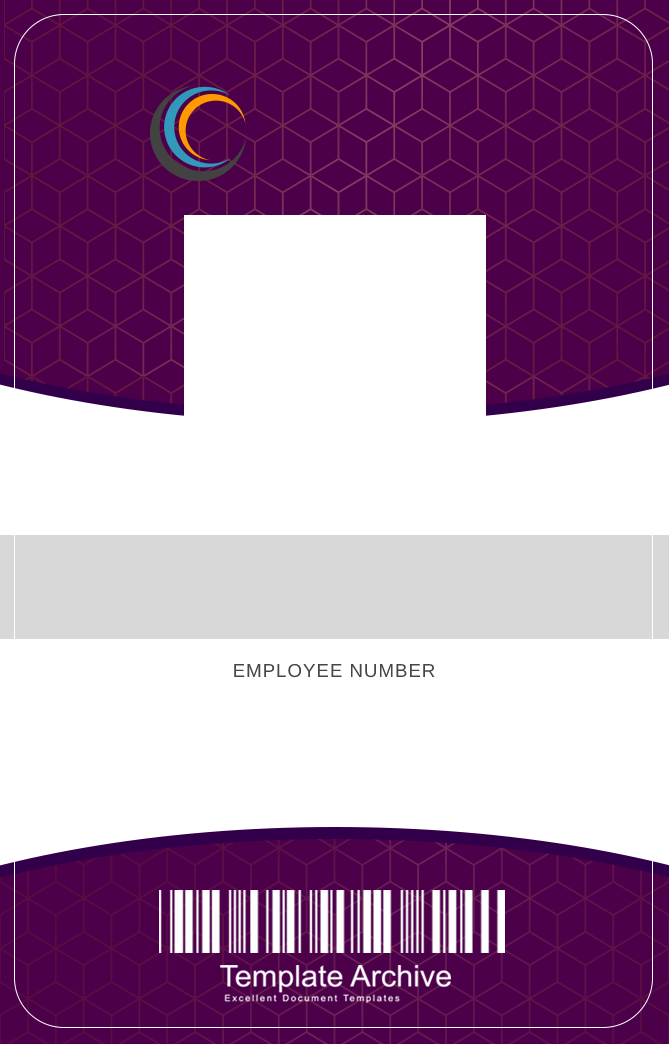
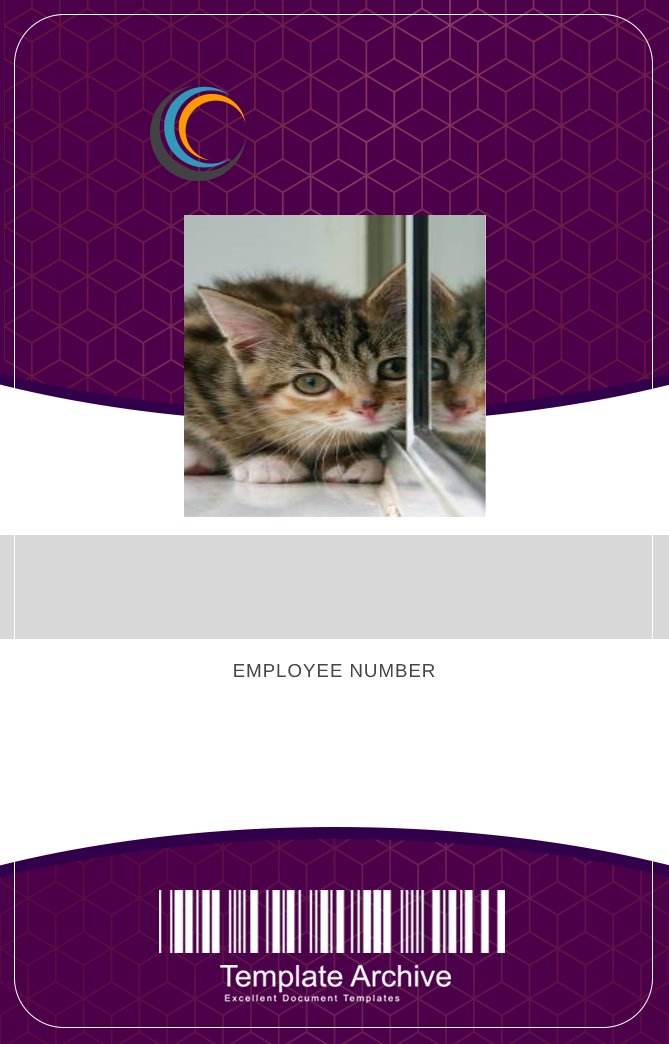
Render the employee photo

Changed region(s): [[0.2691, 0.1839, 0.7474, 0.5211]]

diff --git a/Util.cs b/Util.cs
@@ -1,8 +1,9 @@
 // Import correct packages
 using System;
 using System.IO;
-using System.Collections.Generic;
+using System.Net;
 using System.Drawing;
+using System.Collections.Generic;
 
 namespace CatWorx.BadgeMaker
 {
@@ -45,9 +46,47 @@ namespace CatWorx.BadgeMaker
 
     public static void MakeBadges(List<Employee> employees)
     {
+      // Layout variables
+      int BADGE_WIDTH = 669;
+      int BADGE_HEIGHT = 1044;
+
+      int COMPANY_NAME_START_X = 0;
+      int COMPANY_NAME_START_Y = 110;
+      int COMPANY_NAME_WIDTH = 100;
+
+      int PHOTO_START_X = 184;
+      int PHOTO_START_Y = 215;
+      int PHOTO_WIDTH = 302;
+      int PHOTO_HEIGHT = 302;
+
+      int EMPLOYEE_NAME_START_X = 0;
+      int EMPLOYEE_NAME_START_Y = 560;
+      int EMPLOYEE_NAME_WIDTH = BADGE_WIDTH;
+      int EMPLOYEE_NAME_HEIGHT = 100;
+
+      int EMPLOYEE_ID_START_X = 0;
+      int EMPLOYEE_ID_START_Y = 690;
+      int EMPLOYEE_ID_WIDTH = BADGE_WIDTH;
+      int EMPLOYEE_ID_HEIGHT = 100;
+
+      // instance of WebClient is disposed after code in the block has run
+      using(WebClient client = new WebClient())
+      {
+        for (int i = 0; i < employees.Count; i++)
+        {
+          Image photo = Image.FromStream(client.OpenRead(employees[i].GetPhotoUrl()));
+          Image background = Image.FromFile("badge.png");
+          Image badge = new Bitmap(BADGE_WIDTH, BADGE_HEIGHT);
+          Graphics graphic = Graphics.FromImage(badge);
+          graphic.DrawImage(background, new Rectangle(0, 0, BADGE_WIDTH, BADGE_HEIGHT));
+          graphic.DrawImage(photo, new Rectangle(PHOTO_START_X, PHOTO_START_Y, PHOTO_WIDTH, PHOTO_HEIGHT));
+          badge.Save("data/employeeBadge.png");
+        }
+      }
+
       // Create image
-      Image newImage = Image.FromFile("badge.png");
-      newImage.Save("data/employeeBadge.png");
+      // Image newImage = Image.FromFile("badge.png");
+      // newImage.Save("data/employeeBadge.png");
     }
   }
 }
